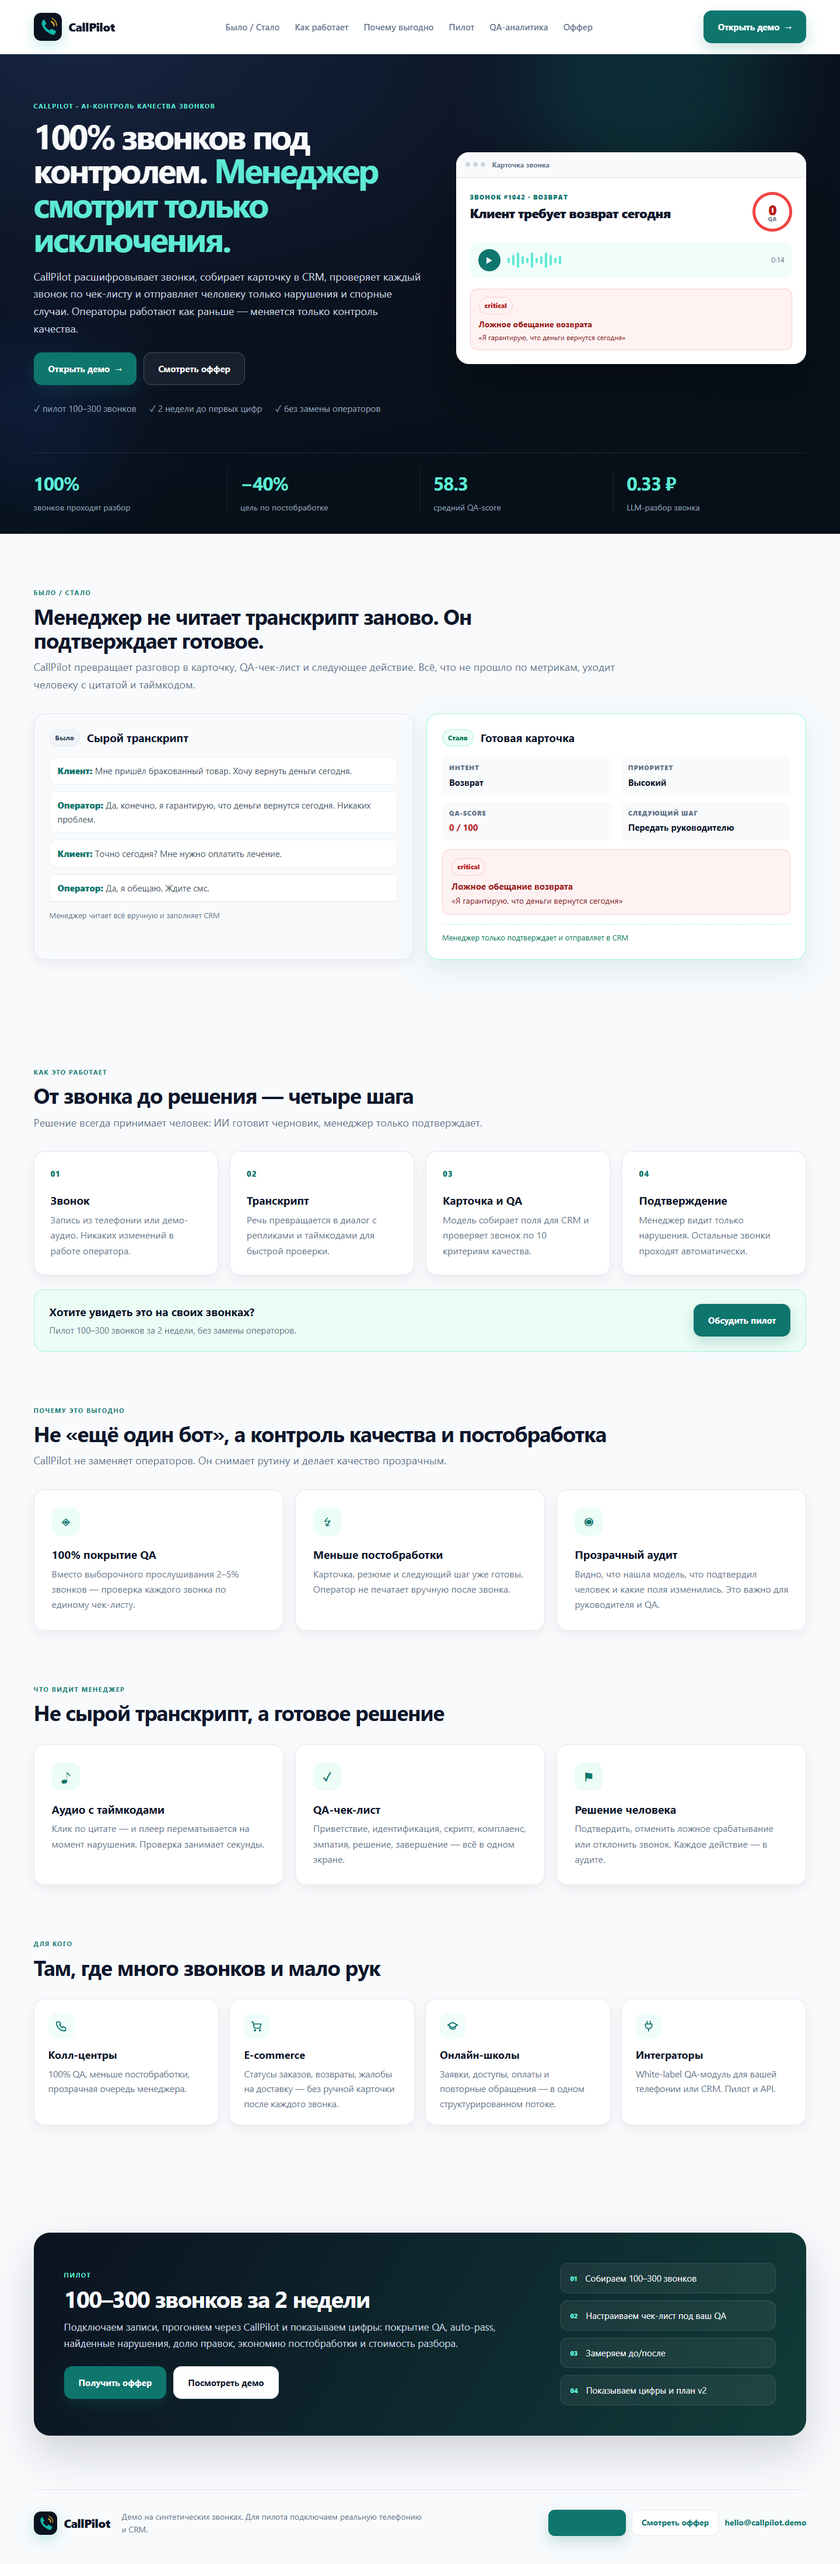
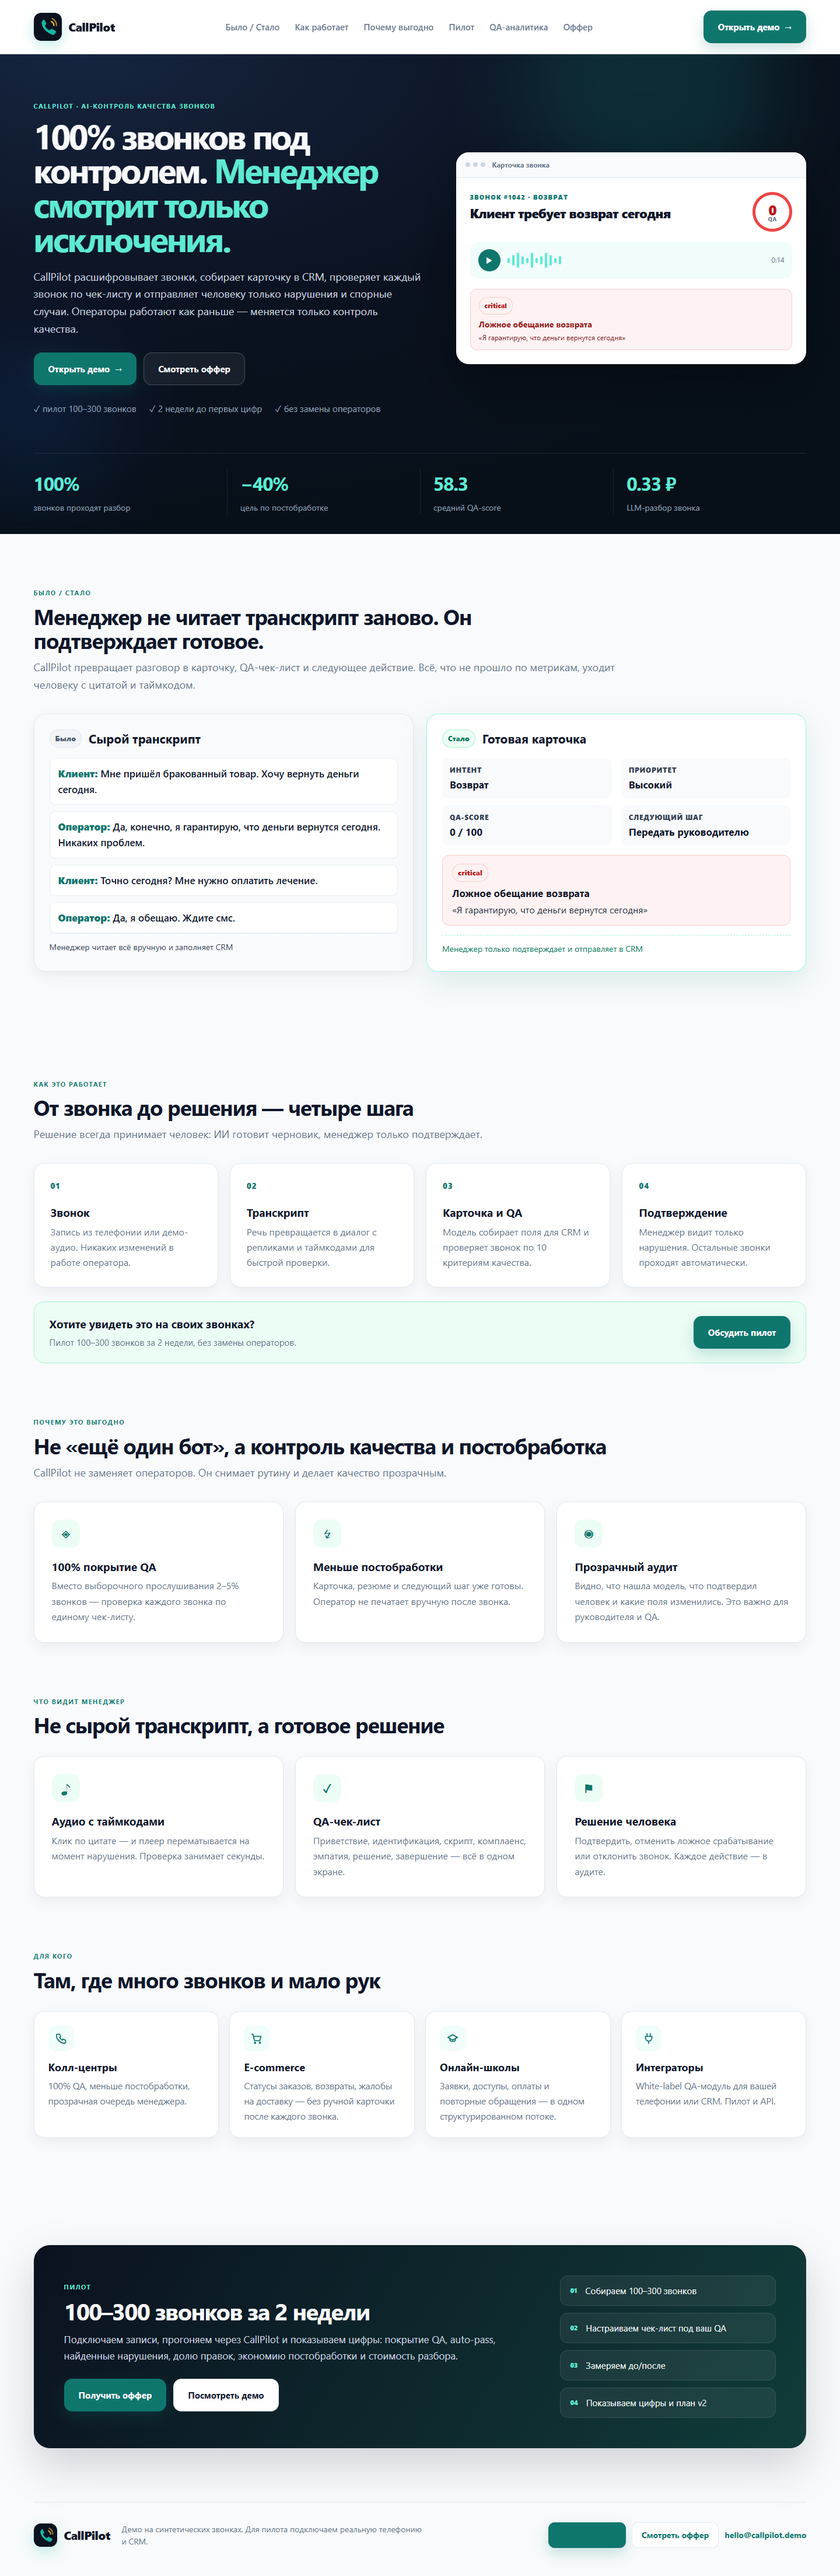
fix: increase before/after block text size and contrast

diff --git a/call-center/static/style.css b/call-center/static/style.css
@@ -447,19 +447,20 @@ textarea { resize: vertical; min-height: 60px; }
 .ba-before { background: #f8fafc; }
 .ba-after { border-color: #99f6e4; box-shadow: 0 18px 45px rgba(15, 118, 110, .12); }
 .ba-header { display: flex; align-items: center; gap: 12px; margin-bottom: 18px; }
-.ba-header h3 { font-size: 19px; }
+.ba-header h3 { font-size: 21px; color: var(--ink); }
+.ba-card .badge { font-size: 12px; }
 .ba-transcript { display: flex; flex-direction: column; gap: 11px; }
-.ba-transcript p { background: #fff; border: 1px solid #e8eef5; border-radius: 10px; padding: 11px 13px; font-size: 15px; line-height: 1.6; color: #475569; }
+.ba-transcript p { background: #fff; border: 1px solid #e8eef5; border-radius: 10px; padding: 12px 14px; font-size: 17px; line-height: 1.6; color: var(--ink); font-weight: 500; }
 .ba-transcript span { color: var(--teal-dark); font-weight: 800; }
 .ba-fields { display: grid; grid-template-columns: 1fr 1fr; gap: 12px 16px; margin-bottom: 16px; }
-.ba-fields > div { background: #f8fafc; border-radius: 10px; padding: 10px 12px; display: flex; flex-direction: column; gap: 4px; }
-.ba-fields span { font-size: 11px; text-transform: uppercase; letter-spacing: .08em; color: var(--muted); font-weight: 800; }
-.ba-fields strong { font-size: 15px; }
+.ba-fields > div { background: #f8fafc; border-radius: 10px; padding: 11px 13px; display: flex; flex-direction: column; gap: 4px; }
+.ba-fields span { font-size: 12px; text-transform: uppercase; letter-spacing: .06em; color: #334155; font-weight: 800; }
+.ba-fields strong { font-size: 17px; color: var(--ink); line-height: 1.4; }
 .text-red { color: #b91c1c; }
-.ba-finding { background: #fef2f2; border: 1px solid #fecaca; border-radius: 12px; padding: 13px 15px; margin-bottom: 16px; }
-.ba-finding strong { display: block; font-size: 15px; color: #991b1b; margin: 6px 0 2px; }
-.ba-finding p { font-size: 14px; color: #7f1d1d; line-height: 1.5; }
-.ba-note { font-size: 13px; color: var(--muted); border-top: 1px dashed var(--line); padding-top: 12px; }
+.ba-finding { background: #fef2f2; border: 1px solid #fecaca; border-radius: 12px; padding: 14px 16px; margin-bottom: 16px; }
+.ba-finding strong { display: block; font-size: 17px; color: #111827; margin: 6px 0 3px; }
+.ba-finding p { font-size: 16px; color: #1f2937; line-height: 1.5; }
+.ba-note { font-size: 14px; color: #334155; border-top: 1px dashed var(--line); padding-top: 12px; }
 .ba-note-green { color: #047857; border-top-color: #a7f3d0; }
 .mid-cta {
   display: flex; align-items: center; justify-content: space-between; gap: 24px;
